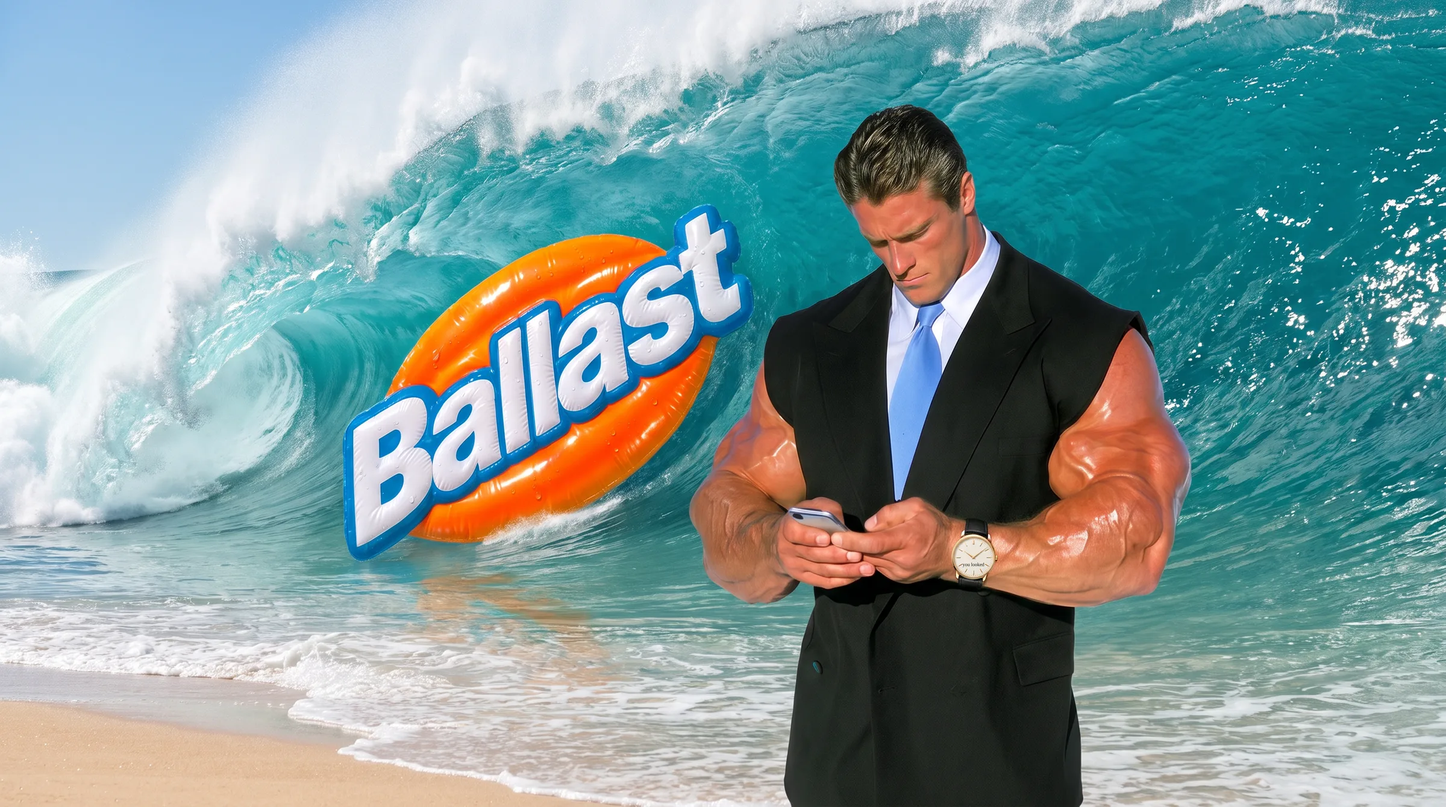
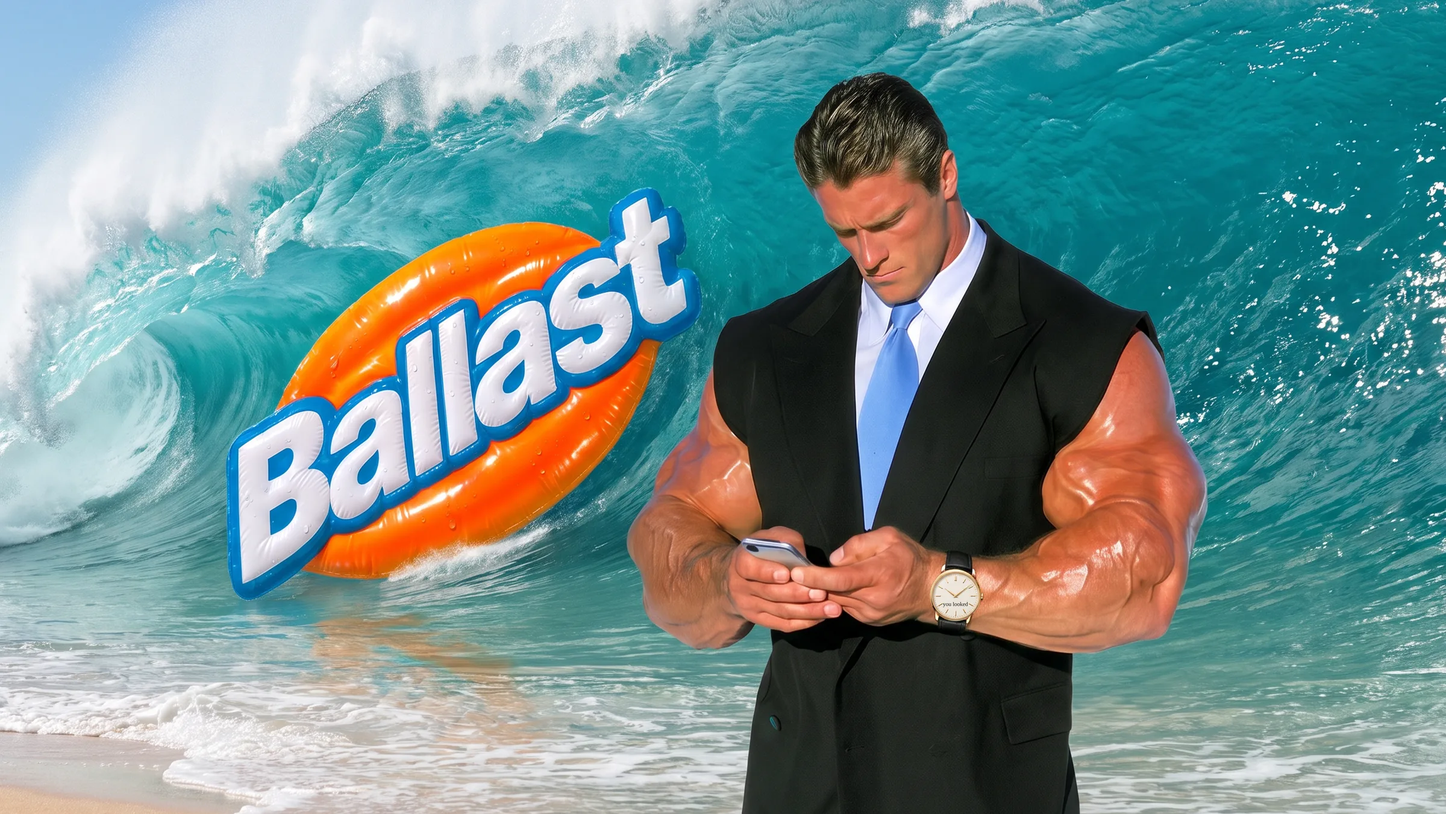
Homepage hero: tighter crop; phone headline under the photo
Claude-Session: https://claude.ai/code/session_01RsgFcg5nZJo1Bxv41FVakU

diff --git a/ballast-site/index.html b/ballast-site/index.html
@@ -706,7 +706,7 @@
   .trk__x>p{visibility:hidden;transition:visibility 0s .3s}
   .trk.is-open .trk__x>p{visibility:visible;transition:none}
   .hw{position:relative;background:var(--ink);color:#fff;overflow:hidden}
-  .hw__img{display:block;width:100%;height:max(420px,min(56.25vw,calc(100svh - 260px)));object-fit:cover;object-position:50% 8%}
+  .hw__img{display:block;width:100%;height:max(420px,min(56.25vw,calc(100svh - 260px)));object-fit:cover;object-position:50% 0%}
   .hw__in{display:grid;grid-template-columns:minmax(0,1fr) auto;align-items:end;gap:12px 32px;padding-top:clamp(18px,3vh,30px);padding-bottom:clamp(18px,3vh,30px)}
   .hw__over{position:absolute;left:0;right:0;top:0;padding-top:clamp(92px,13vh,124px);pointer-events:none;z-index:2}
   .hw:before{content:"";position:absolute;inset:0;z-index:1;pointer-events:none;background:radial-gradient(ellipse 46% 52% at 14% 22%,rgba(10,13,24,.78),rgba(10,13,24,.42) 55%,rgba(10,13,24,0) 100%)}
@@ -715,7 +715,7 @@
   .hw__p{margin:0!important}
   .hw__p{margin:clamp(8px,1.6vh,16px) 0 0;font-family:"Ballast Display",var(--g);font-style:italic;font-weight:900;text-transform:uppercase;color:var(--orange);font-size:clamp(24px,3vw,52px);line-height:.95}
   @media (max-width:900px){.hw__in{grid-template-columns:minmax(0,1fr)}.hw__in .hx__cta{grid-column:1;grid-row:auto;justify-content:flex-start;margin-top:8px}}
-  @media (max-width:760px){.hw__img{height:auto;aspect-ratio:4/3;min-height:0;object-position:46% 50%}.hw__over{top:auto;bottom:calc(100% - min(75vw,100%));padding-top:0;padding-bottom:12px}.hw:before{bottom:auto;height:75vw;background:linear-gradient(to top,rgba(10,13,24,.82),rgba(10,13,24,.35) 38%,rgba(10,13,24,0) 60%)}}
+  @media (max-width:760px){.hw__img{height:auto;aspect-ratio:4/3;min-height:0;object-position:46% 50%}.hw__over{position:static;padding-top:18px;padding-bottom:0}.hw:before{display:none}.hw__h{max-width:none;font-size:40px}.hw__in{padding-top:8px}}
   .hw__proof{display:flex;gap:clamp(20px,5vw,80px);flex-wrap:wrap;padding-top:clamp(22px,4vh,36px);padding-bottom:clamp(22px,4vh,36px);border-bottom:1px solid rgba(255,255,255,.14)}
   .hw__proof b{display:block;font-weight:800;font-size:clamp(24px,2.4vw,38px);letter-spacing:-.035em;line-height:1}
   .hw__proof .mono{display:block;margin-top:8px;font-size:11px;color:rgba(255,255,255,.62)}
@@ -807,7 +807,7 @@
 
   <!-- hero -->
   <section class="hw" id="scene">
-    <img class="hw__img" src="/work/hero/tsunami-2400.webp?v=3" srcset="/work/hero/tsunami-1200.webp?v=3 1200w, /work/hero/tsunami-2400.webp?v=3 2400w" sizes="100vw" width="2400" height="1340" alt="A very muscular man in a suit checks his phone on the beach while a giant wave carrying an inflatable Ballast float rises behind him" fetchpriority="high">
+    <img class="hw__img" src="/work/hero/tsunami-2400.webp?v=4" srcset="/work/hero/tsunami-1200.webp?v=4 1200w, /work/hero/tsunami-2400.webp?v=4 2400w" sizes="100vw" width="2400" height="1351" alt="A very muscular man in a suit checks his phone on the beach while a giant wave carrying an inflatable Ballast float rises behind him" fetchpriority="high">
     <div class="hw__over pad"><h1 class="hw__h">Your ad didn&rsquo;t work.</h1></div>
     <div class="hw__in pad">
       <p class="hw__p">Our ads do. Book a call&nbsp;today.</p>
